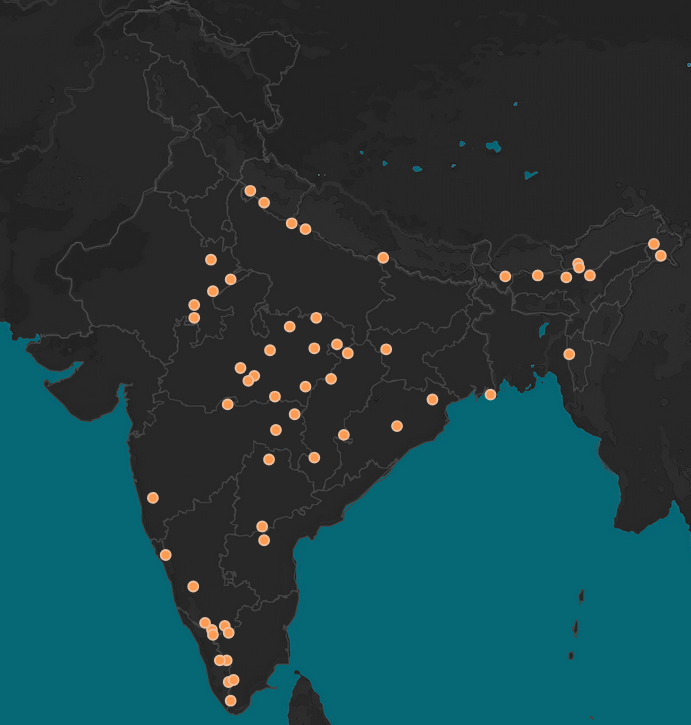
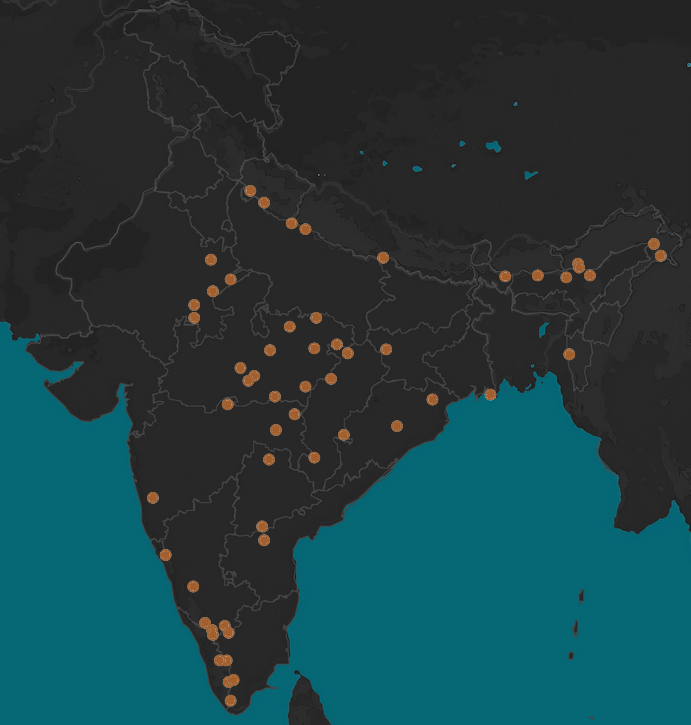
2025-01-11 18h27m

diff --git a/Map_Tiger_Res/game_1.css b/Map_Tiger_Res/game_1.css
@@ -186,7 +186,15 @@
 
 
 
-
+	.leaflet-interactive {
+		cursor: crosshair;   
+	 
+		stroke: #A06335 !important; 
+		color: #A06335 !important; 	
+		fillColor:#A06335 !important; 		
+		fill: #A06335 !important;
+	}
+		
 
 
 	
